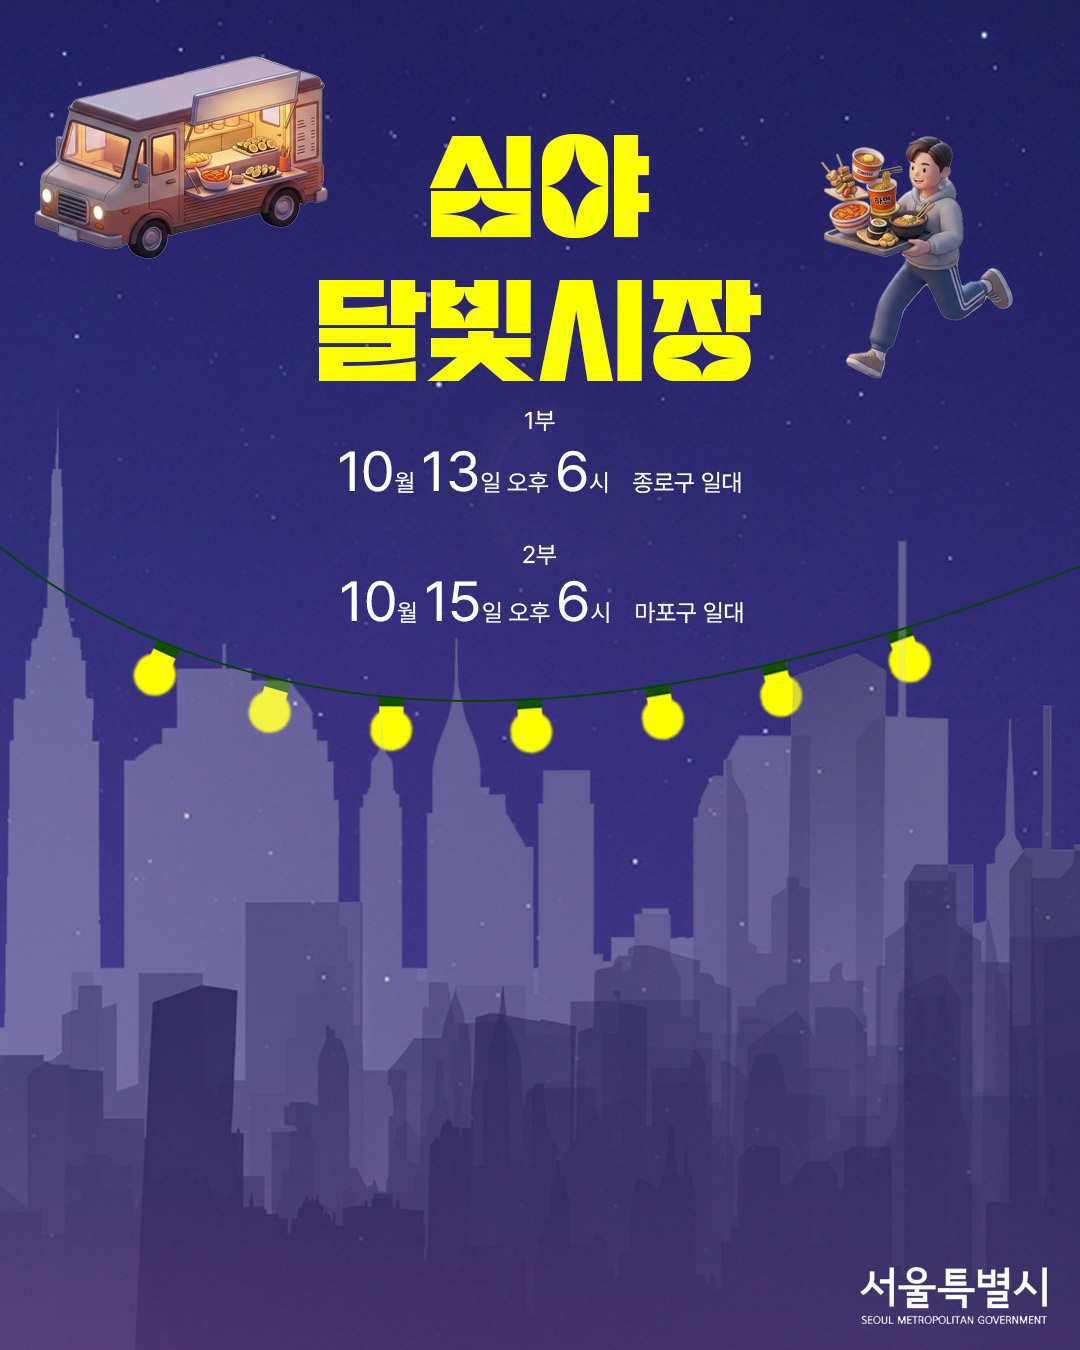
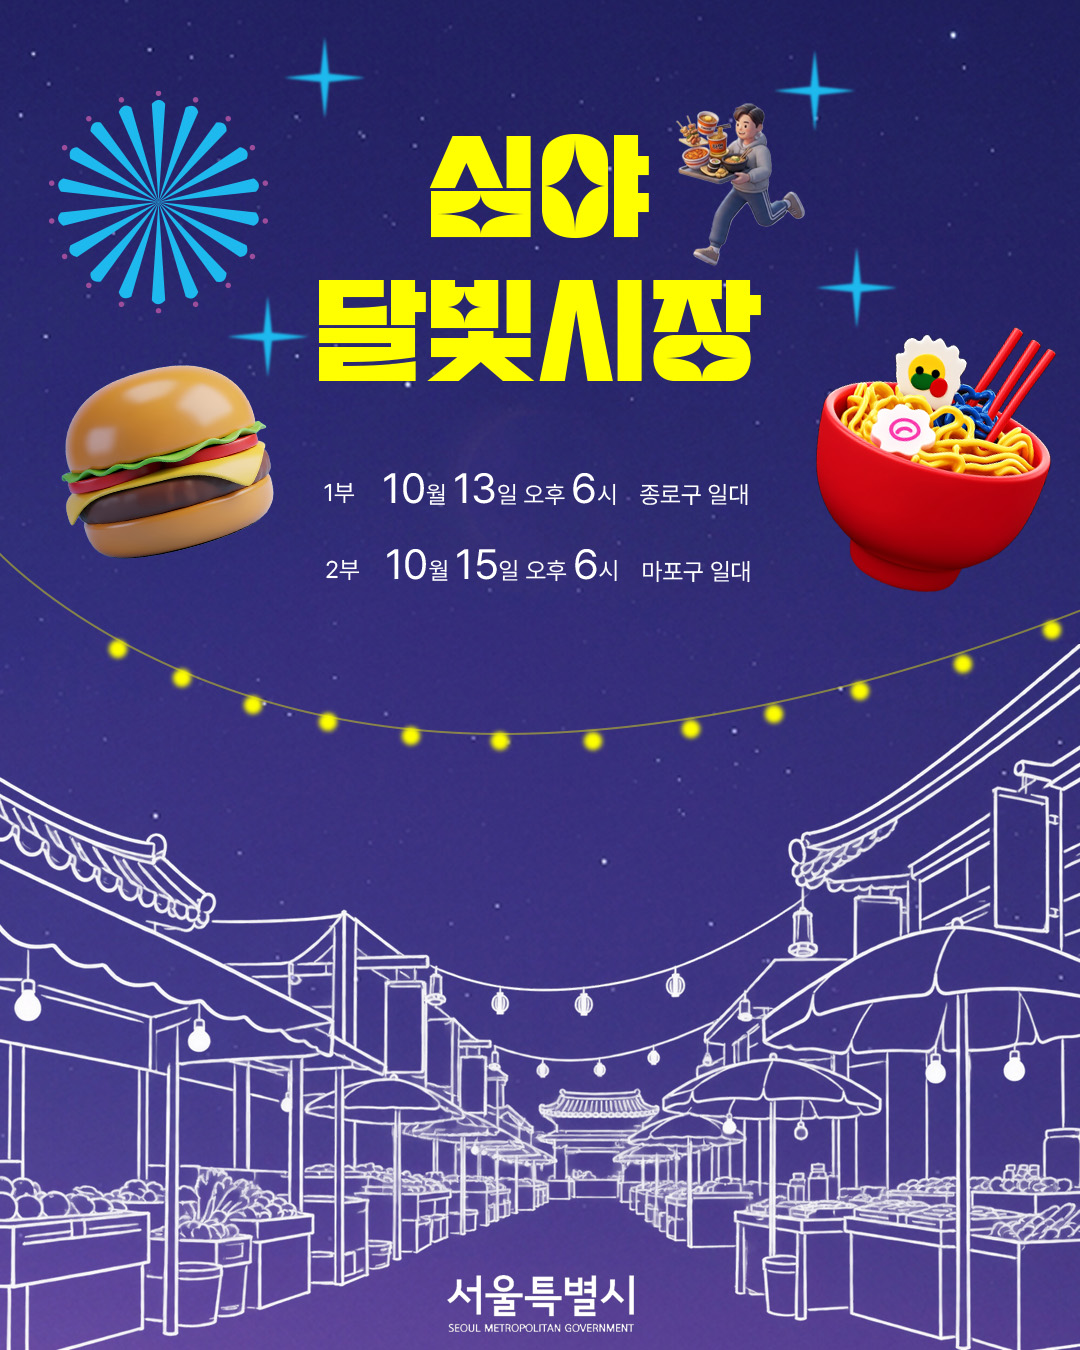
1003

diff --git a/index.html b/index.html
@@ -178,7 +178,7 @@
                                 </div>
                                 <div class="bottom">
                                     <p><span>친화력이 좋은</span></p>
-                                    <p><span>INFJ</span></p>
+                                    <p><span>ENFJ</span></p>
                                     <p><span>코딩이 재밌어요...</span></p>
                                 </div>
                             </div>
